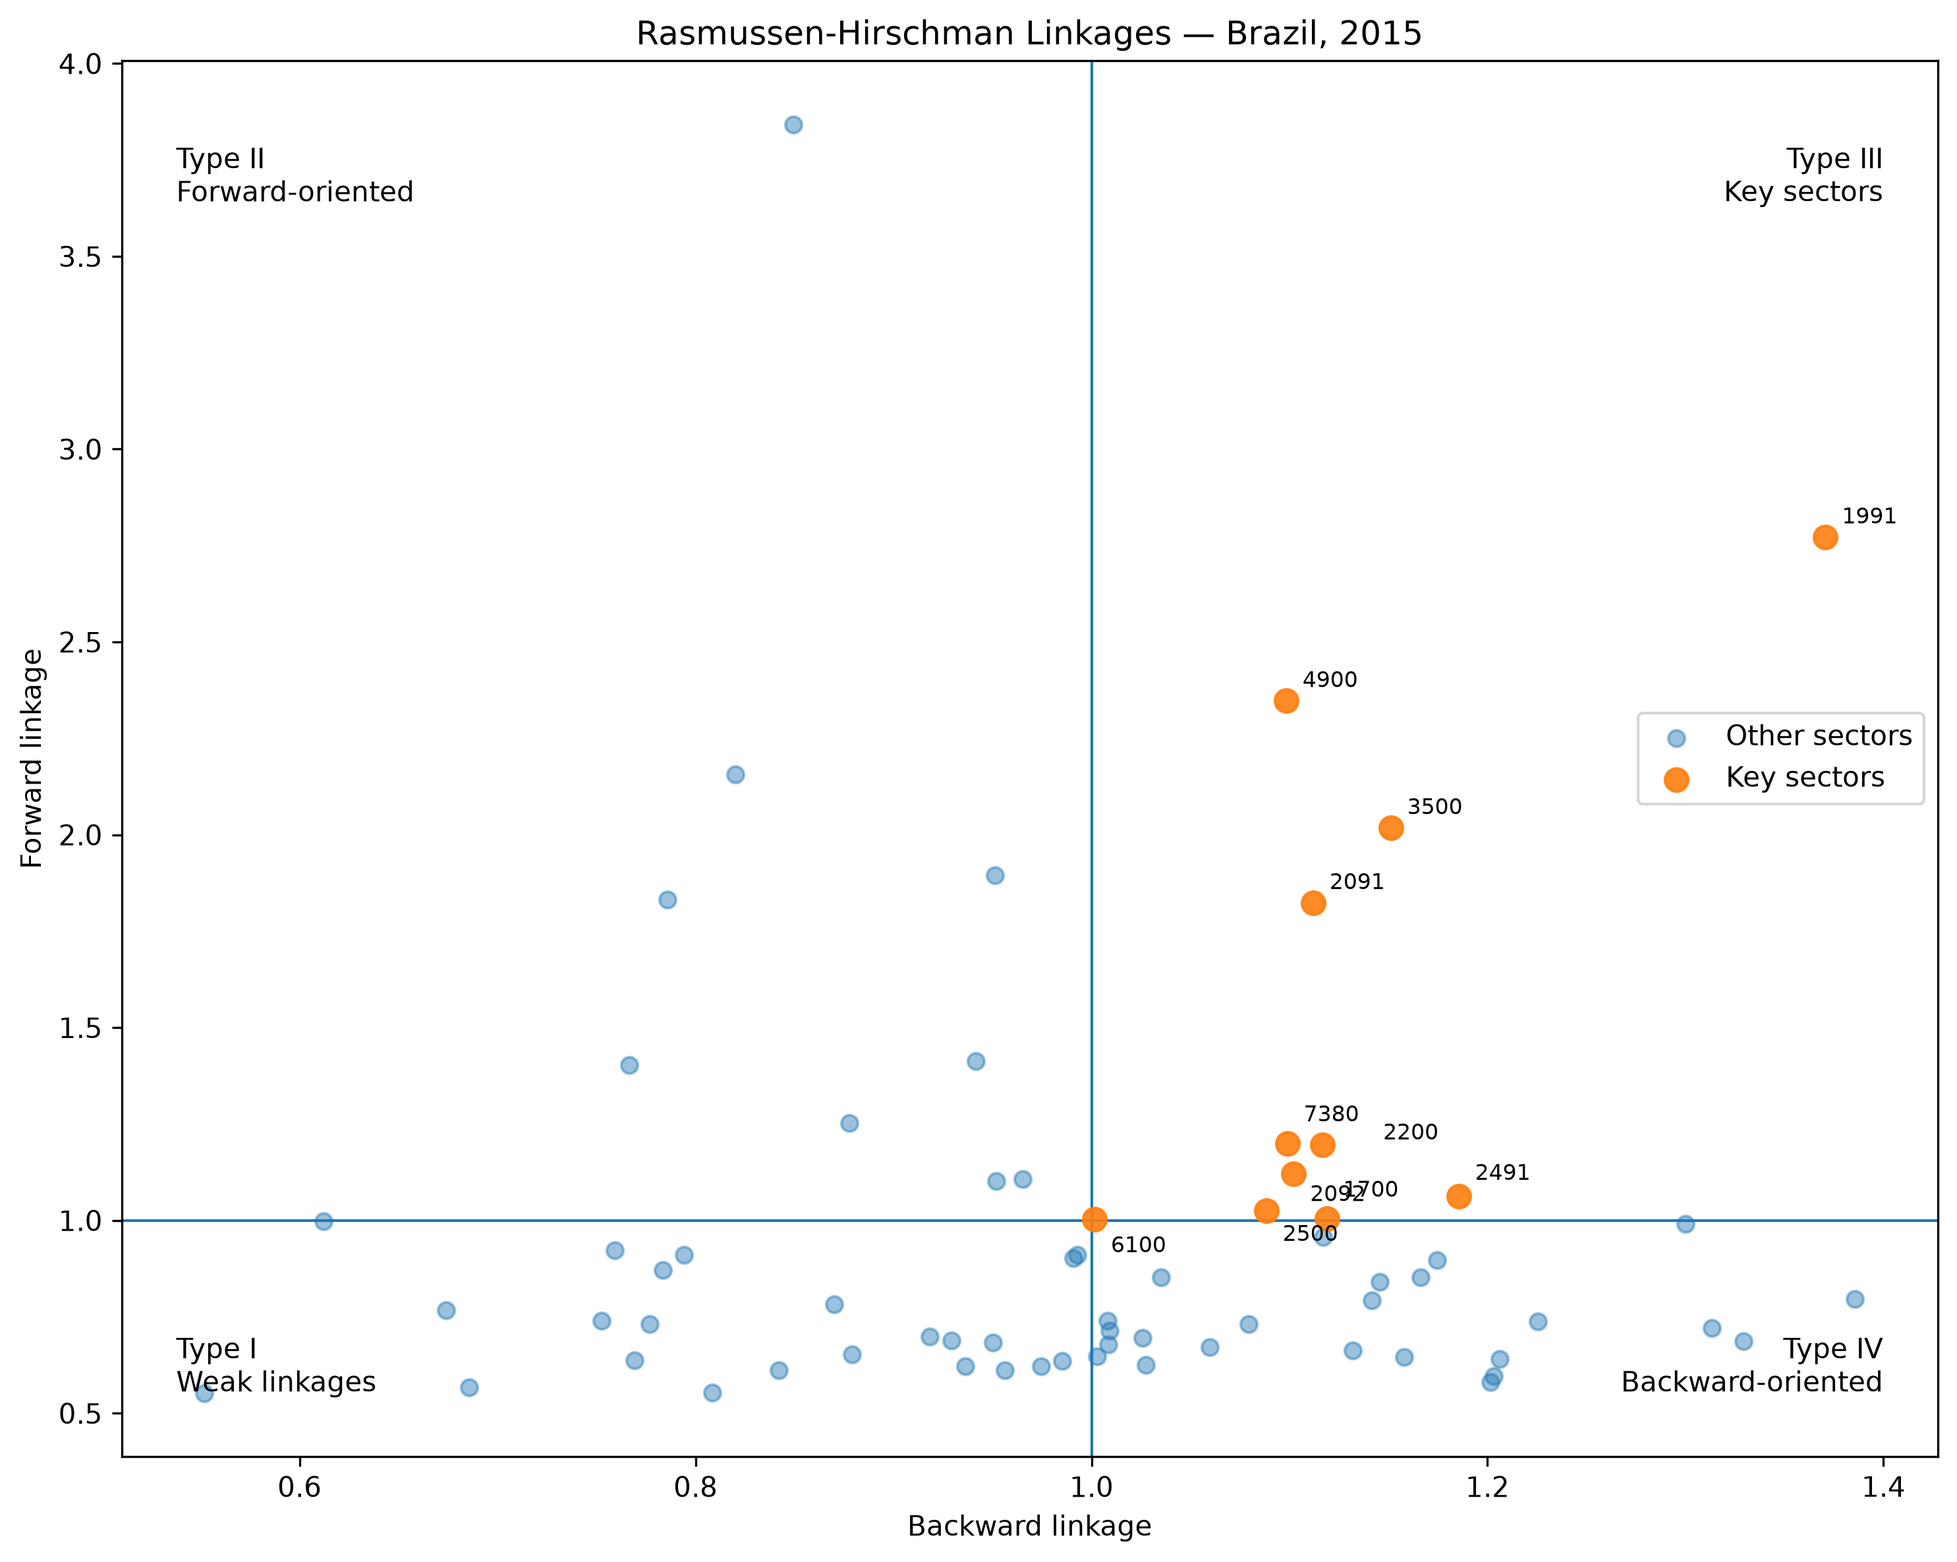
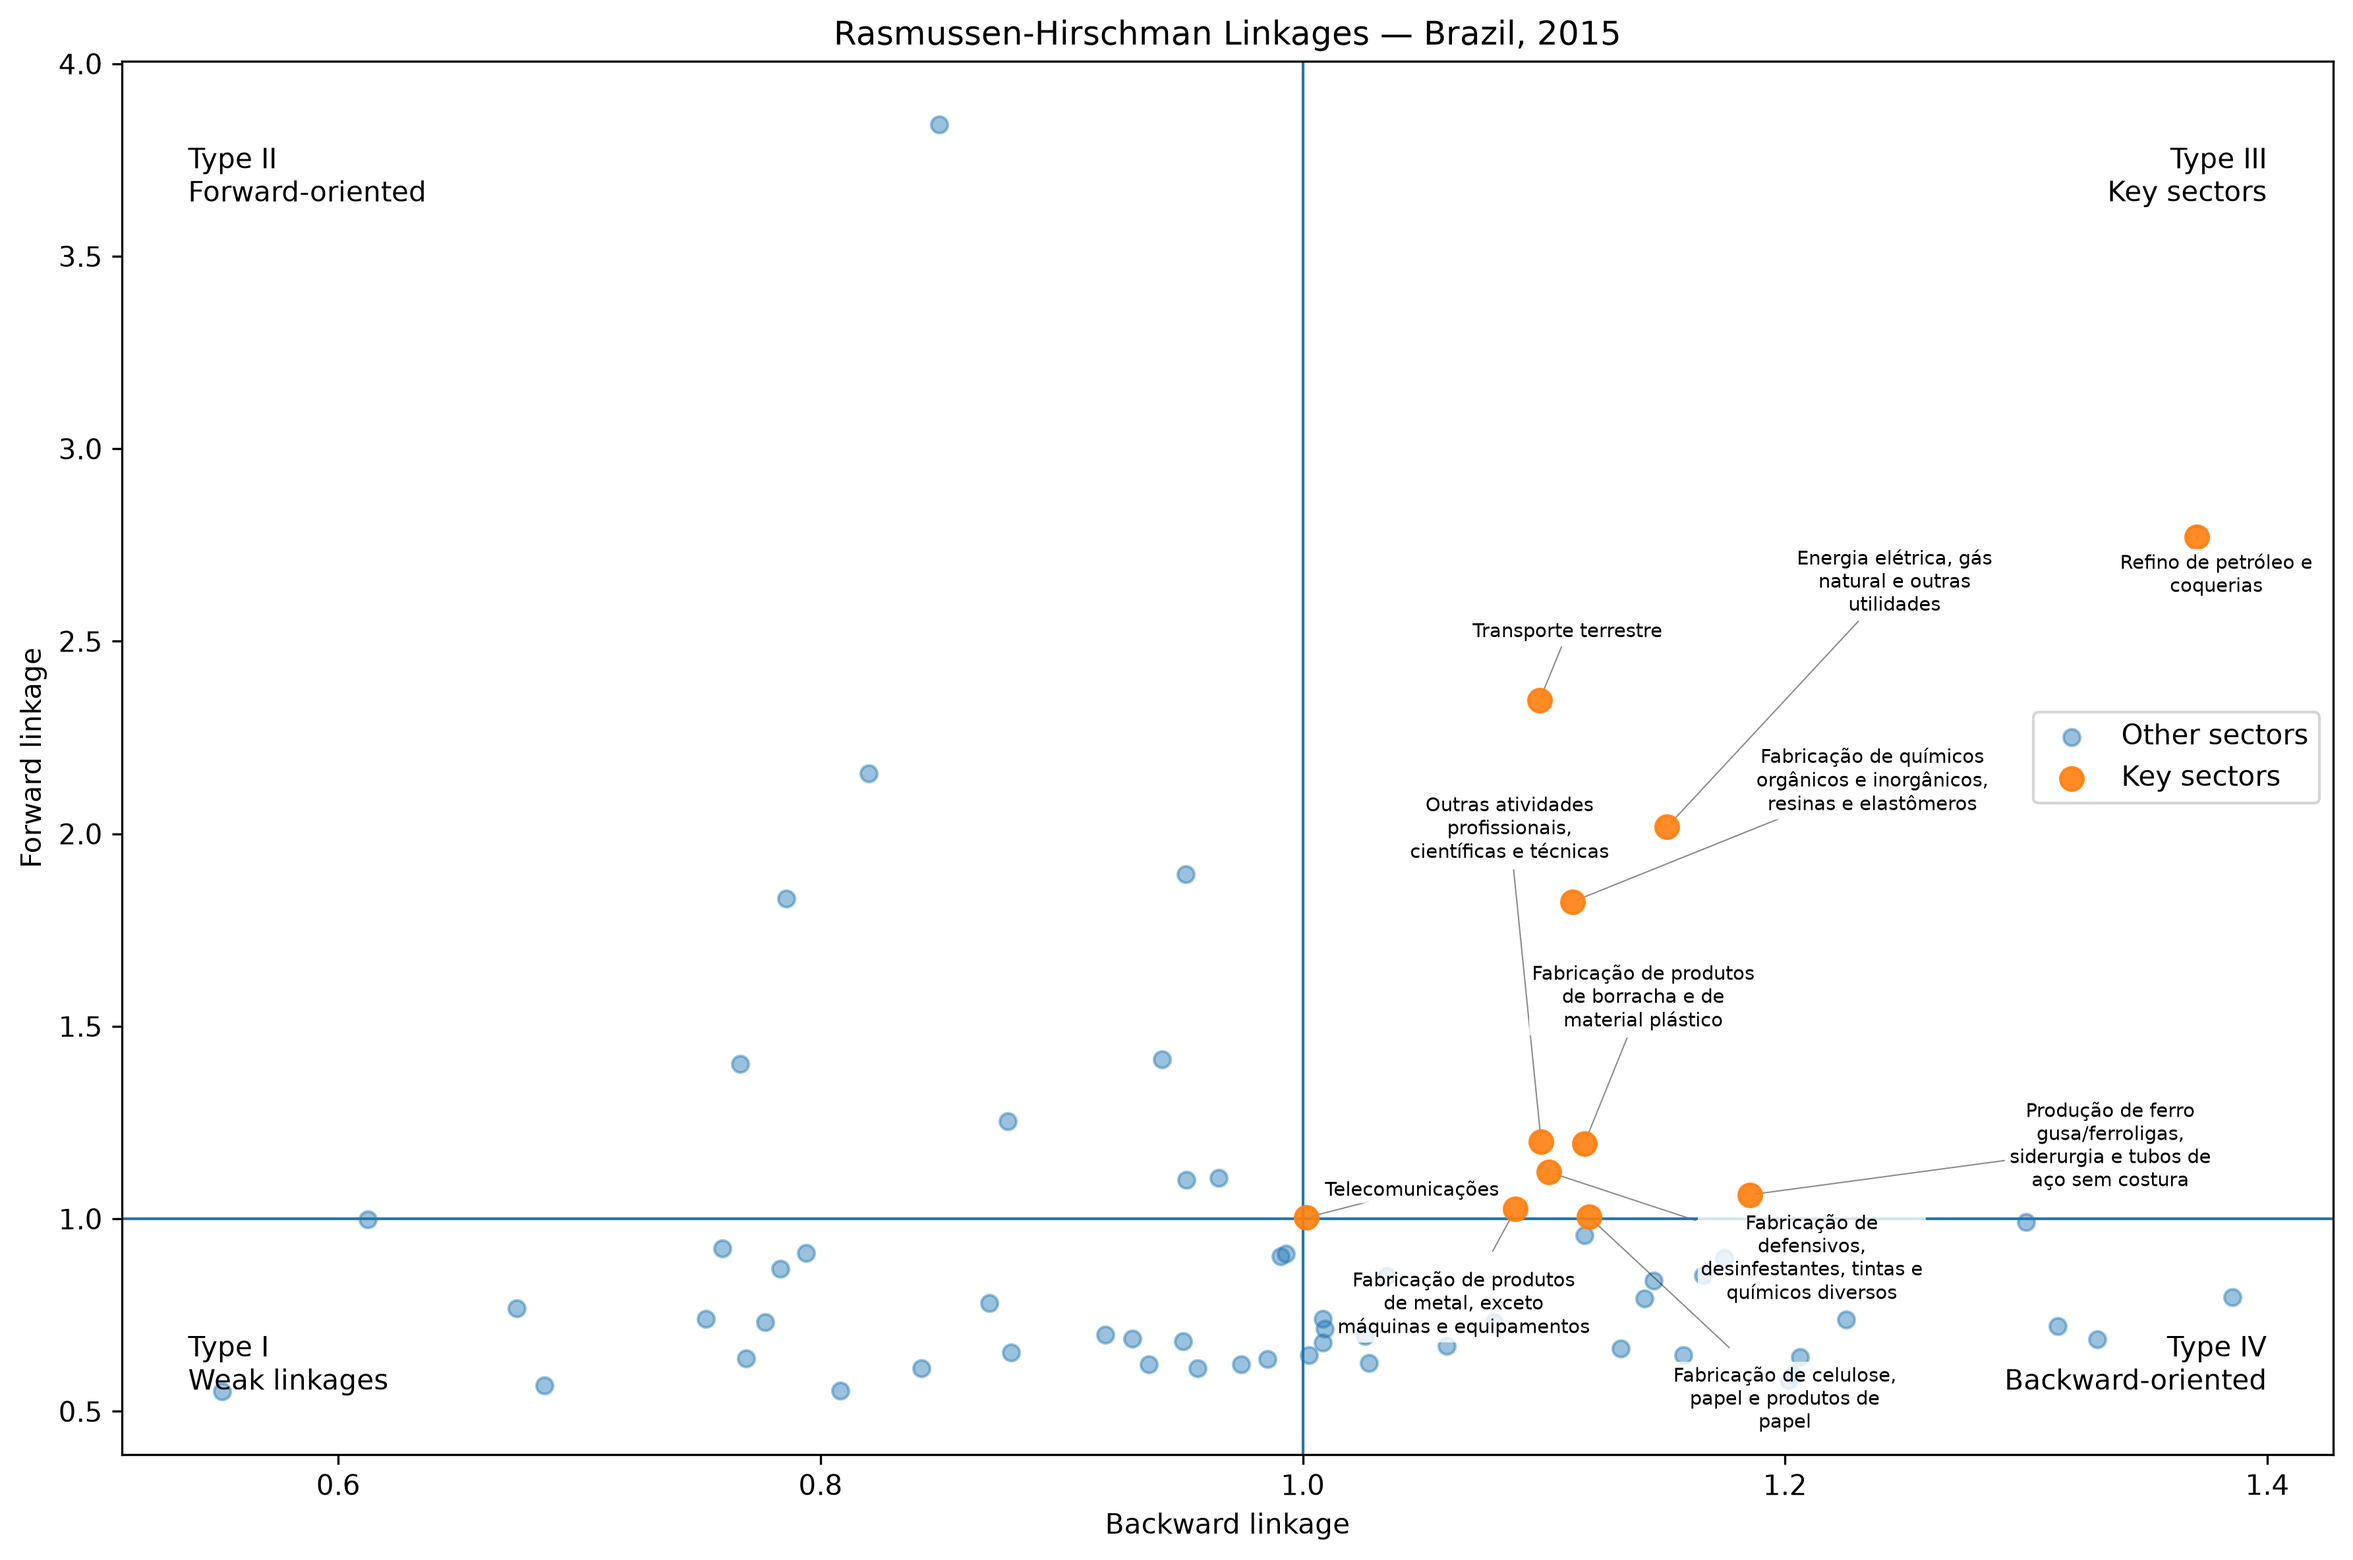
fix: polish portfolio presentation

diff --git a/notebooks/brazil_input_output_analysis.py b/notebooks/brazil_input_output_analysis.py
@@ -6,6 +6,9 @@
 # and final-demand shocks.
 
 # %%
+from textwrap import fill
+
+from adjustText import adjust_text
 from input_output.linkages import rasmussen_hirschman
 from input_output.matrices import (
     build_leontief_inverse,
@@ -34,7 +37,6 @@ tables = parse_ibge_workbook(WORKBOOK)
 
 tables.Bn.shape, tables.D.shape
 
-
 # %% [markdown]
 # ## 2. Reconstruct the technical coefficient matrix
 # ## and Leontief inverse
@@ -48,7 +50,6 @@ A = build_technical_matrix(
 L = build_leontief_inverse(A)
 
 A.shape, L.shape
-
 
 # %% [markdown]
 # ## 3. Rasmussen-Hirschman linkages
@@ -69,7 +70,6 @@ linkages.sort_values(
         False,
     ],
 ).head(20)
-
 
 # %% [markdown]
 # ## 4. Scenario 1 — 40% increase in final demand
@@ -99,13 +99,11 @@ key_result = apply_final_demand_shock(
 
 key_result
 
-
 # %%
 key_result.sector_impacts.sort_values(
     "total_output_impact",
     ascending=False,
 ).head(15)
-
 
 # %% [markdown]
 # ## 5. Scenario 2 — 10% increase in exports
@@ -121,13 +119,11 @@ export_result = apply_final_demand_shock(
 
 export_result
 
-
 # %%
 export_result.sector_impacts.sort_values(
     "total_output_impact",
     ascending=False,
 ).head(15)
-
 
 # %% [markdown]
 # ## 6. Scenario 3 — 10% increase in investment
@@ -143,13 +139,11 @@ investment_result = apply_final_demand_shock(
 
 investment_result
 
-
 # %%
 investment_result.sector_impacts.sort_values(
     "total_output_impact",
     ascending=False,
 ).head(15)
-
 
 # %% [markdown]
 # ## 7. Scenario comparison
@@ -391,7 +385,7 @@ figure_dir.mkdir(
     exist_ok=True,
 )
 
-fig, ax = plt.subplots(figsize=(10, 8))
+fig, ax = plt.subplots(figsize=(12, 8))
 
 key_mask = linkages["is_key_sector"]
 
@@ -433,33 +427,49 @@ ax.set_title("Rasmussen-Hirschman Linkages — Brazil, 2015")
 
 ax.legend()
 
-label_offsets = {
-    "1991": (8, 6),
-    "4900": (8, 6),
-    "3500": (8, 6),
-    "2091": (8, 6),
-    "7380": (6, 14),
-    "2200": (30, 10),
-    "2092": (8, -16),
-    "2491": (8, 8),
-    "2500": (-22, -18),
-    "1700": (8, 18),
-    "6100": (8, -16),
-}
+texts = []
 
 for _, row in key_linkages.iterrows():
-    offset = label_offsets[row["sector_code"]]
+    label = fill(
+        row["sector_name"],
+        width=24,
+    )
 
-    ax.annotate(
-        row["sector_code"],
-        (
+    texts.append(
+        ax.text(
             row["backward_linkage"],
             row["forward_linkage"],
-        ),
-        xytext=offset,
-        textcoords="offset points",
-        fontsize=8,
+            label,
+            fontsize=7,
+            ha="left",
+            va="center",
+            bbox={
+                "boxstyle": "round,pad=0.15",
+                "facecolor": "white",
+                "edgecolor": "none",
+                "alpha": 0.8,
+            },
+        )
     )
+
+adjust_text(
+    texts,
+    x=key_linkages["backward_linkage"].to_numpy(),
+    y=key_linkages["forward_linkage"].to_numpy(),
+    ax=ax,
+    expand=(1.1, 1.4),
+    force_text=(0.3, 1.0),
+    force_static=(0.2, 0.6),
+    force_pull=(0.01, 0.02),
+    max_move=(12, 40),
+    ensure_inside_axes=True,
+    prevent_crossings=True,
+    arrowprops={
+        "arrowstyle": "-",
+        "linewidth": 0.5,
+        "alpha": 0.45,
+    },
+)
 
 x_min, x_max = ax.get_xlim()
 y_min, y_max = ax.get_ylim()

diff --git a/README.md b/README.md
@@ -128,6 +128,9 @@ Typical problems include:
 
 ```text
 .
+├── .github/
+│   └── workflows/
+│       └── tests.yml
 ├── cases/
 │   ├── brazil-input-output-analysis/
 │   └── crm-marketing-reconciliation/
@@ -170,7 +173,7 @@ Generated intermediate data are generally kept separate from the source code.
 
 The portfolio is built around reusable modules rather than one-off notebooks.
 
-The current Python test suite contains **132 passing tests** covering synthetic data generation, reconciliation logic, input-output parsing, matrix reconstruction, validation, structural analysis, shock modeling, scenario management, and artifact generation.
+The current Python test suite contains **134 passing tests** covering synthetic data generation, reconciliation logic, input-output parsing, matrix reconstruction, validation, structural analysis, shock modeling, scenario management, and artifact generation.
 
 Run the complete Python test suite with:
 

diff --git a/cases/crm-marketing-reconciliation/README.md b/cases/crm-marketing-reconciliation/README.md
@@ -17,6 +17,10 @@ The workflow reconstructed **8,932 acquisition entities from 8,972 true trackabl
 
 For paid media, the reconstructed CPL came within **0.3% of hidden truth**, while platform-reported CPL was off by roughly **4–8%**.
 
+In business terms, the same **$595,406 in paid-media spend** appeared to generate 5,597 platform conversions but only **5,269 reconstructed acquisition entities**. Platform reporting therefore implied an aggregate CPL of **$106.38**, compared with **$113.00** after reconciliation — making acquisition cost look **$6.62 cheaper per lead, or about 5.9% lower**, than the reconciled view.
+
+The distortion was larger on Facebook Ads, where platform reporting made CPL look **$7.01 cheaper per lead** ($75.53 vs. $82.54), while Google Ads was understated by **$5.69 per lead** ($123.39 vs. $129.07).
+
 ## Why this matters
 
 A dashboard can be numerically correct and still answer the wrong business question.

diff --git a/reports/reconciliation/client/executive_summary.md b/reports/reconciliation/client/executive_summary.md
@@ -30,6 +30,12 @@ The reconstructed universe contains 8,932 trackable acquisition entities. Paid-m
 
 The platform view is optimistic, while requiring a lead to appear in both systems is too conservative. The reconstructed KPI provides a middle ground based on observable evidence.
 
+### Business impact
+
+Across $595,406 in paid-media spend, platform reporting implied a $106.38 cost per lead. After cross-system reconciliation and deduplication, CPL was $113.00 — a **$6.62 per-lead (5.9%) understatement** in the platform view.
+
+The gap was $7.01 per lead on Facebook Ads and $5.69 on Google Ads.
+
 ## Internal synthetic benchmark
 
 Ground truth is used only after the pipeline is complete, strictly for validation. Against 8,972 true trackable leads, the workflow reconstructs 8,932 unique valid entities:

diff --git a/cases/brazil-input-output-analysis/README.md b/cases/brazil-input-output-analysis/README.md
@@ -195,7 +195,7 @@ and scenario outputs under:
 reports/input-output/scenarios/
 ```
 
-The Python test suite currently contains 132 passing tests covering the
+The Python test suite currently contains 134 passing tests covering the
 input-output package alongside the other portfolio pipelines.
 
 Run the full test suite with:
